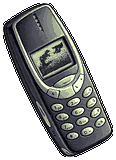
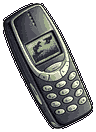
Speaker arrastrable + teléfono pixel art

diff --git a/index.html b/index.html
@@ -124,9 +124,9 @@
   }
   @keyframes twOff { 0%,52% { opacity:0; } 53%,82% { opacity:.94; } 83%,100% { opacity:0; } }
 
-  /* mouse y telefono arrastrables */
-  #el-mouse, #el-telefono { cursor:grab; touch-action:none; z-index:10; }
-  #el-mouse.dragging, #el-telefono.dragging { cursor:grabbing; z-index:50; }
+  /* mouse, telefono y speaker arrastrables */
+  #el-mouse, #el-telefono, #el-speaker { cursor:grab; touch-action:none; z-index:10; }
+  #el-mouse.dragging, #el-telefono.dragging, #el-speaker.dragging { cursor:grabbing; z-index:50; }
 
   /* guacamaya en la ventana */
   #el-guacamaya { cursor:pointer; z-index:9; }
@@ -280,7 +280,7 @@
     <div class="city-light tw"    style="left:95.21%; top:38.84%; --d:2.4s; --dl:2.0s"></div>
     <div class="city-light off"   style="left:97.71%; top:38.84%; --d:8.2s; --dl:1.5s"></div>
     <div class="el sprite" id="el-telefono" data-name="telefono" title="arrastrar"
-         style="left:76.300%; top:64.200%; width:6.400%;">
+         style="left:76.100%; top:62.400%; width:7.200%;">
       <img src="assets/telefono.png" alt="telefono">
       <span class="tag">telefono</span>
     </div>
@@ -336,6 +336,7 @@
   /* ---------- speaker: musica on/off ---------- */
   function toggleSpeaker() {
     const sp = document.getElementById('el-speaker');
+    if (sp.dataset.dragged === '1') { sp.dataset.dragged = ''; return; }
     if (sndSpeaker.paused) {
       sndSpeaker.play().then(() => sp.classList.add('playing')).catch(() => {});
     } else {
@@ -402,20 +403,24 @@
   /* ---------- elementos arrastrables (mouse, telefono) ---------- */
   (function () {
     const scene = document.getElementById('scene');
-    ['el-mouse', 'el-telefono'].forEach(id => {
+    ['el-mouse', 'el-telefono', 'el-speaker'].forEach(id => {
       const el = document.getElementById(id);
       let drag = null;
       el.addEventListener('pointerdown', e => {
         e.preventDefault();
+        el.dataset.dragged = '';
         const r = scene.getBoundingClientRect();
         const m = el.getBoundingClientRect();
         drag = { dx: e.clientX - m.left, dy: e.clientY - m.top, rect: r,
-                 w: m.width / r.width * 100, h: m.height / r.height * 100 };
+                 w: m.width / r.width * 100, h: m.height / r.height * 100,
+                 x0: e.clientX, y0: e.clientY };
         el.classList.add('dragging');
         el.setPointerCapture(e.pointerId);
       });
       el.addEventListener('pointermove', e => {
         if (!drag) return;
+        if (Math.abs(e.clientX - drag.x0) + Math.abs(e.clientY - drag.y0) > 6)
+          el.dataset.dragged = '1';
         let x = (e.clientX - drag.rect.left - drag.dx) / drag.rect.width * 100;
         let y = (e.clientY - drag.rect.top - drag.dy) / drag.rect.height * 100;
         x = Math.max(0, Math.min(100 - drag.w, x));
